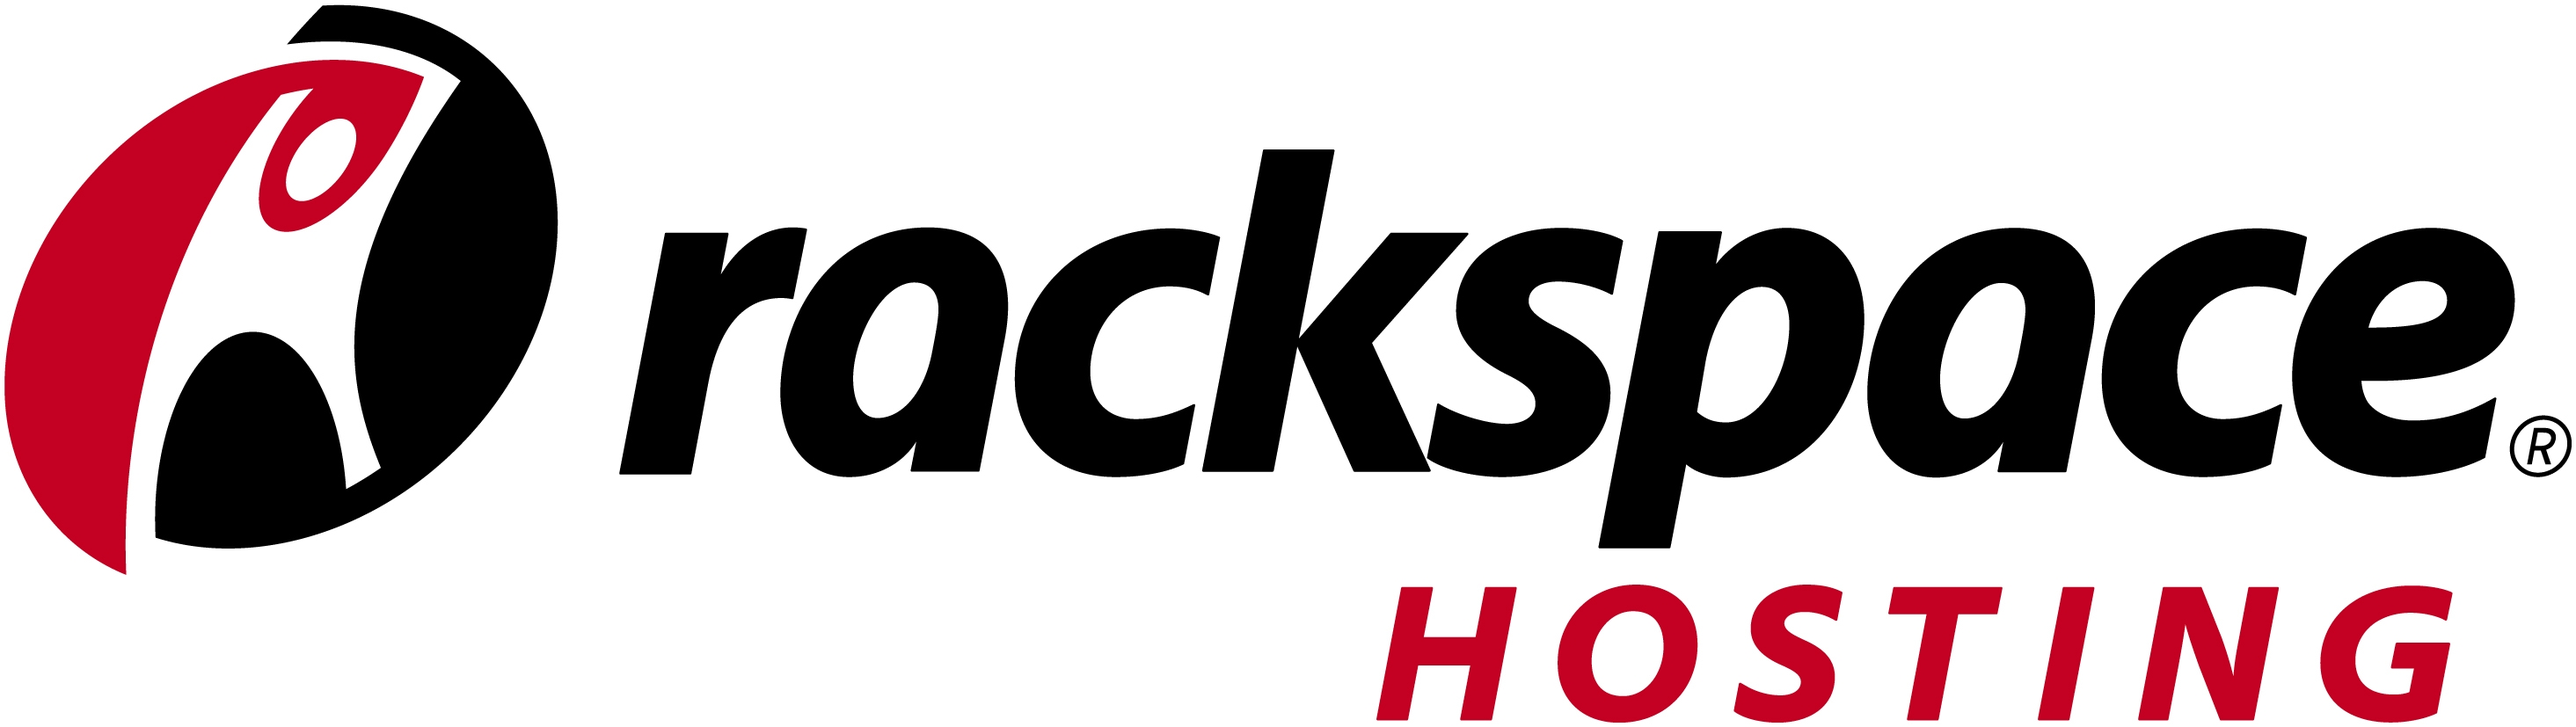
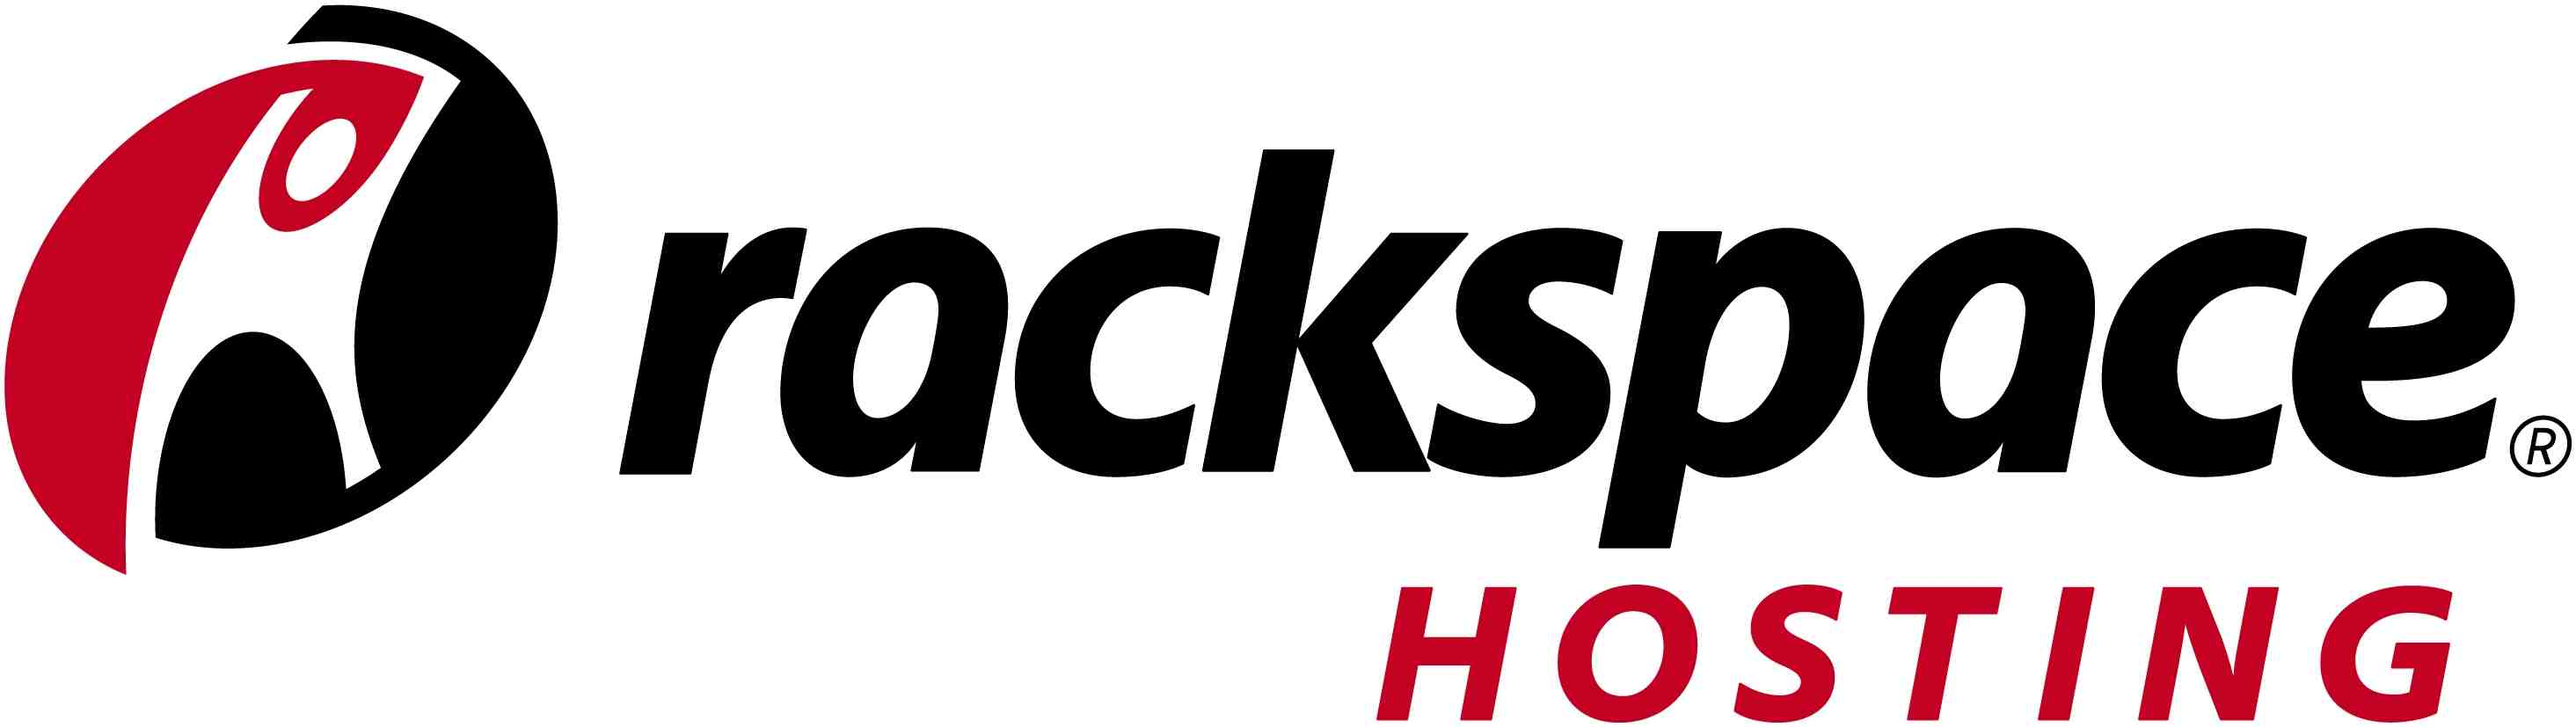
reduce resolution

Changed region(s): [[0.6835, 0.9674, 0.7146, 0.9976], [0.6214, 0.9674, 0.6524, 0.9976], [0.0932, 0.1814, 0.1243, 0.2116]]

diff --git a/index.html b/index.html
@@ -163,7 +163,7 @@
 				</div>
 				<div class="col-md-7 pull-left">
 					<div>
-						<img src="img/Justino-video.png" />
+						<img src="img/Justino-video.jpg" />
 						<a class="video fancybox.iframe" href="//player.vimeo.com/video/99567467#t=33?autoplay=0"><img class="play-btn" src="img/btnPlay.png"></img></a>
 					</div>
 				</div>			
@@ -183,7 +183,7 @@
 					</div>
 				</div>	
 				<div class="col-md-6 pull-right">
-					<div class="phone-img"><img src="img/t4r-phone.png"/></div>
+					<div class="phone-img"><img src="img/t4r-phone.jpg"/></div>
 				</div>	
 			</div>
 			<hr class="featurette-divider">
@@ -258,8 +258,8 @@
 		<div class="sponsors"> 
 			<h5>Created during <strong>DEBUG DC Growthathon</strong> in San Francisco, CA</h5>
 			<a href="http://hf.cx/media/blog/hackersfounders-holds-the-first-political-growthathon-to-pass-immigration-reform"><img src="img/debugdc.jpg"/></a>
-			<a href="http://www.fwd.us/"><img src="img/FWDus.png"/></a>
-			<a href="http://hf.cx/"><img src="img/HF.png"/></a>
+			<a href="http://www.fwd.us/"><img src="img/FWDus.jpg"/></a>
+			<a href="http://hf.cx/"><img src="img/HF.jpg"/></a>
 			<a href="http://www.rackspace.com/"><img src="img/rackspace.jpg"/></a>
 		</div> 
 		<p class="pull-right">Made in San Francisco</p> 
